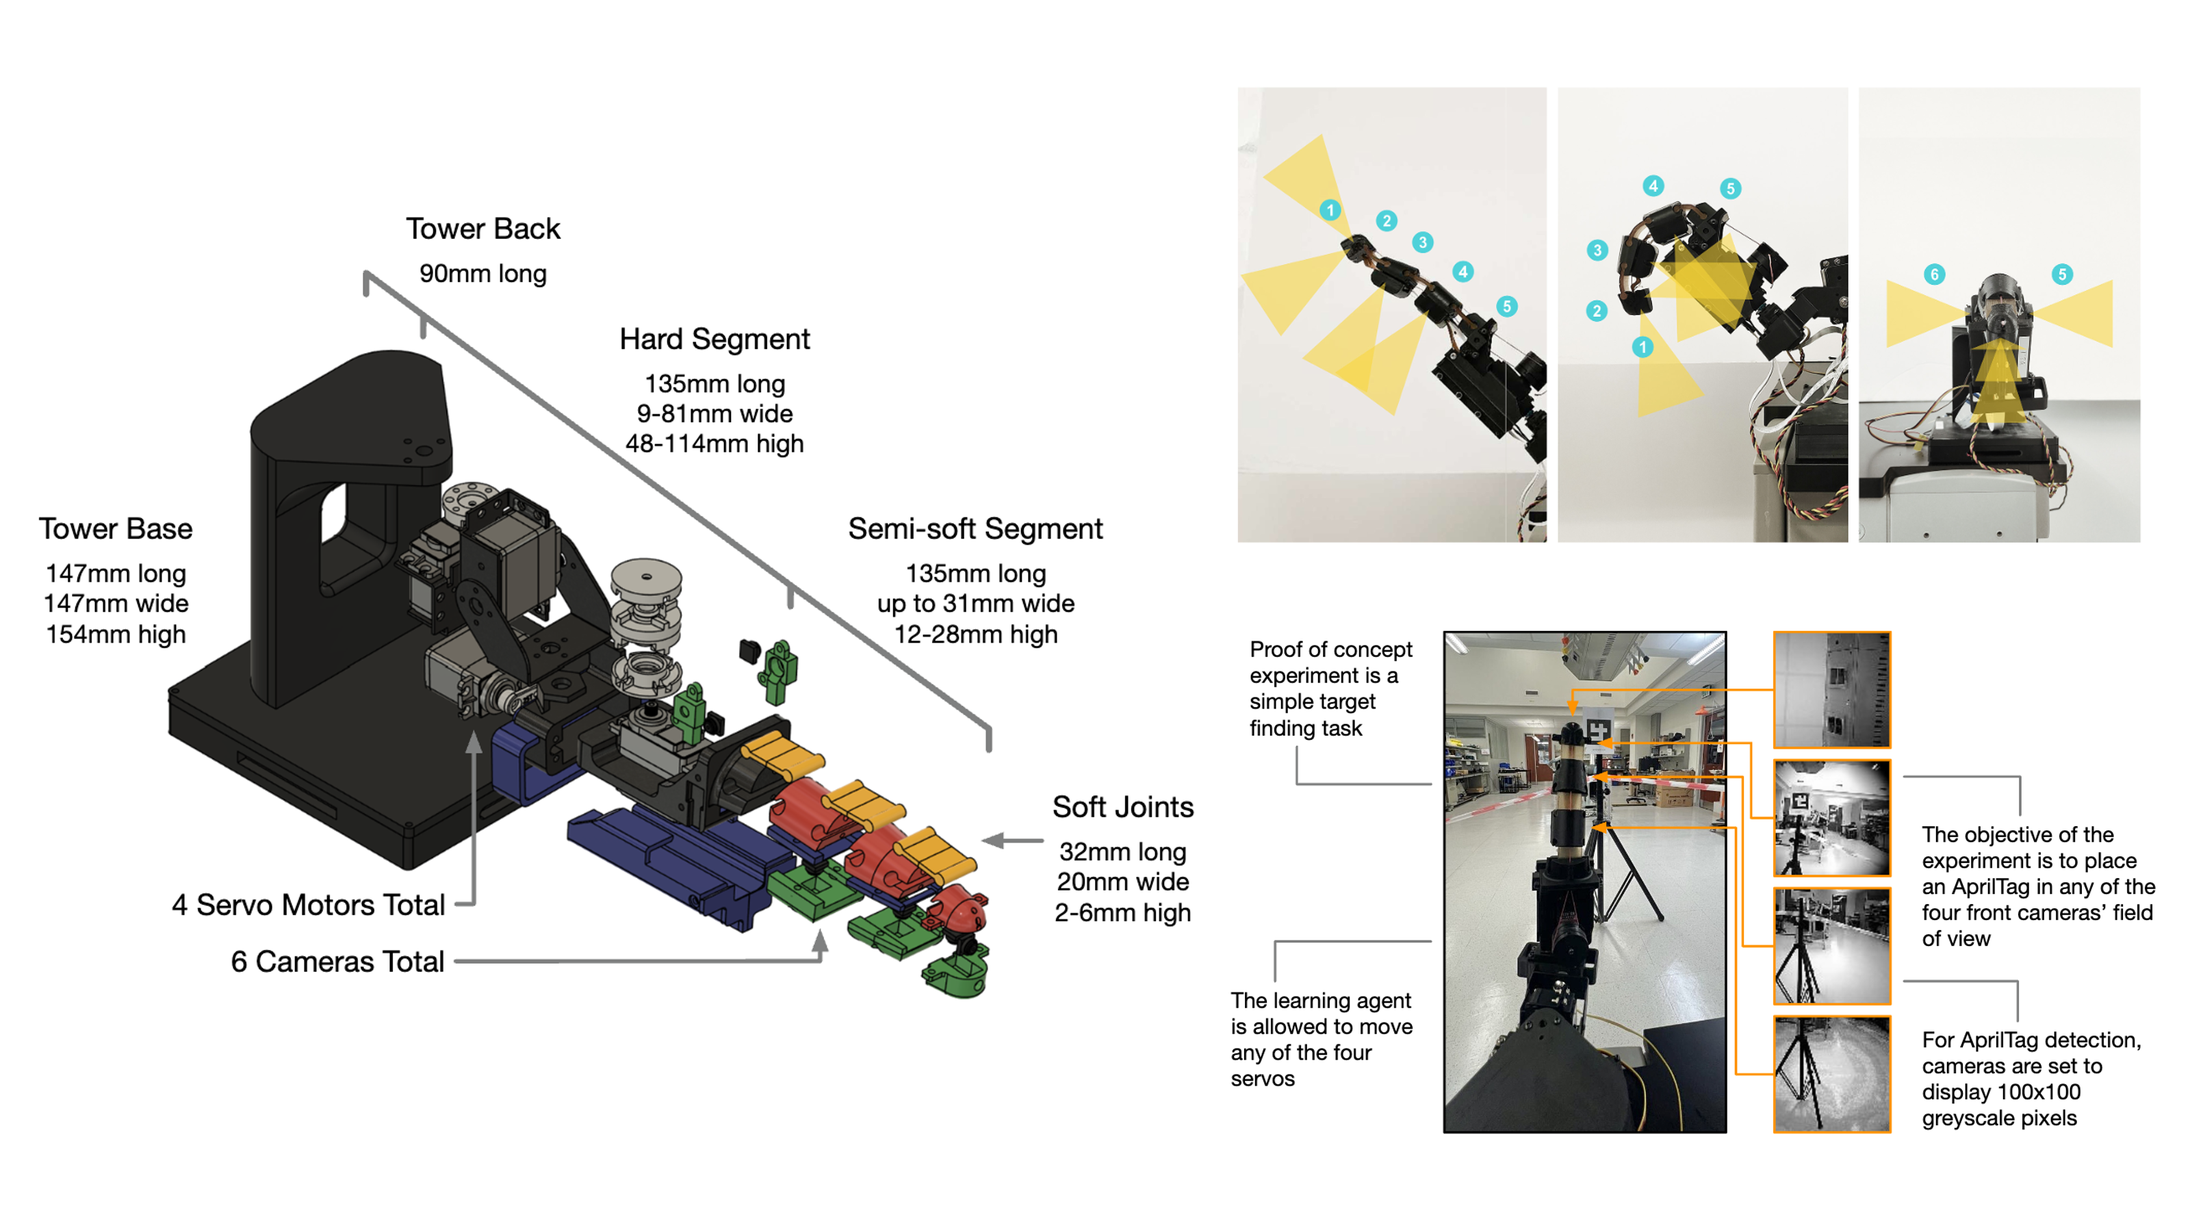
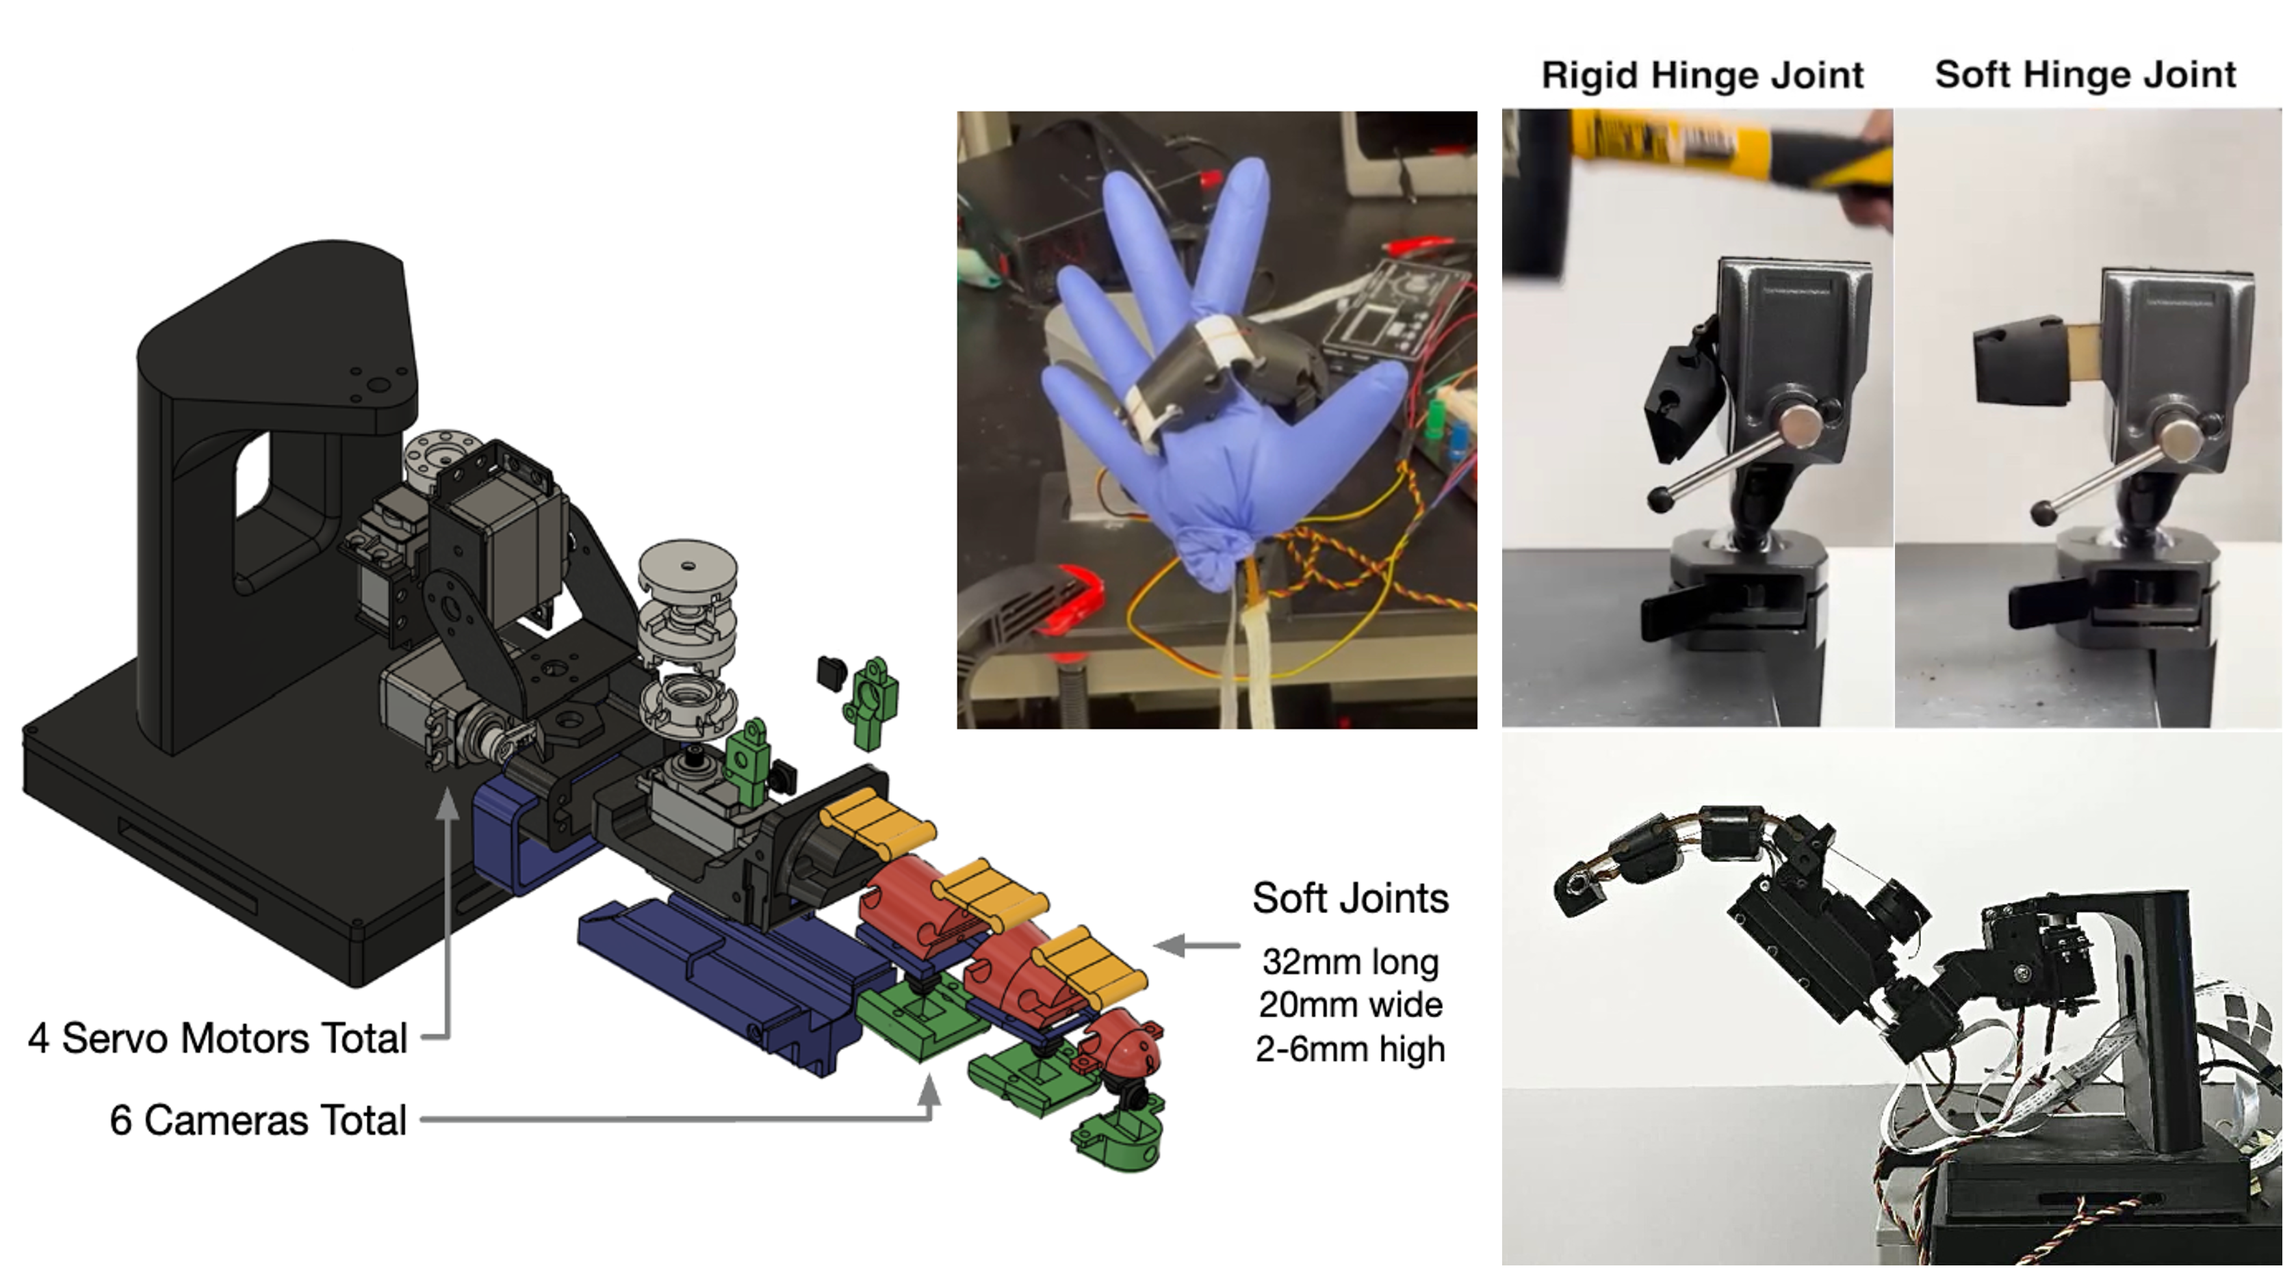
Add recent research work and update homepage

diff --git a/index.html b/index.html
@@ -105,9 +105,21 @@
     .pc:first-child             { border-top: none; padding-top: 0; }
     .pt                         { width: 320px; min-width: 320px; height: 180px; border-radius: 7px; overflow: hidden; border: 1px solid #e4e4e4; background: #f5f5f5; flex-shrink: 0; }
     .pt img                     { width: 100%; height: 100%; object-fit: cover; }
+    .pt img.evoalloc-preview    { object-fit: contain; background: #fff; }
+    .pt img.babyrobot-preview,
+    .pt img.starfish-preview    { display: block; box-sizing: border-box; padding: 10px; object-fit: contain; object-position: center; background: #fff; }
+    /* Frame the upper PSS scene: 480 × 270 at (120, 14) in the 600 × 410 GIF. */
+    .pt img.pss-preview         { display: block; width: 125%; max-width: none; height: auto; transform: translate(-20%, -3.414634%); }
+    button.pt                   { display: block; position: relative; box-sizing: content-box; padding: 0; font: inherit; text-align: left; appearance: none; cursor: zoom-in; }
+    button.pt:hover             { border-color: #185FA5; }
+    button.pt:focus-visible     { outline: 3px solid #185FA5; outline-offset: 4px; }
+    .pt-zoom-hint                { position: absolute; right: 8px; bottom: 8px; padding: 3px 8px; border-radius: 4px; background: rgba(22, 34, 50, .8); color: #fff; font: 12px/1.5 'Lato', sans-serif; opacity: 0; pointer-events: none; }
+    button.pt:hover .pt-zoom-hint,
+    button.pt:focus-visible .pt-zoom-hint { opacity: 1; }
     .pb                         { flex: 1; min-width: 0; display: flex; flex-direction: column; gap: 5px; }
     .vr                         { display: flex; align-items: center; gap: 7px; flex-wrap: wrap; }
     .vt                         { font-size: 14px; font-weight: 700; letter-spacing: .04em; padding: 2px 9px; border-radius: 4px; background: #EEEDFE; color: #534AB7; }
+    .vn                         { font-size: 14px; font-weight: 500; color: #666; }
     .vy                         { font-size: 14px; color: #999; }
     .vd                         { font-size: 14px; color: #ccc; }
     .bg                         { font-size: 14px; font-weight: 500; color: #e65100; }
@@ -118,6 +130,27 @@
     .lk a                       { font-size: 13px; color: #1772d0; text-decoration: none; border-bottom: 1px solid transparent; }
     .lk a:hover                 { border-bottom-color: #1772d0; }
     .lk span                    { font-size: 13px; color: #ddd; }
+
+    /* Full-size publication images; native dialog handles keyboard focus and Escape. */
+    body.image-preview-open     { overflow: hidden; }
+    .image-preview              { width: min(1100px, calc(100vw - 40px)); max-width: none; max-height: calc(100vh - 40px); max-height: calc(100dvh - 40px); box-sizing: border-box; margin: auto; padding: 18px; border: 0; border-radius: 12px; background: #fff; color: #1a1a1a; box-shadow: 0 24px 90px rgba(0, 0, 0, .25); }
+    .image-preview::backdrop     { background: rgba(15, 23, 42, .78); }
+    .image-preview-header        { display: flex; align-items: flex-start; justify-content: space-between; gap: 20px; margin-bottom: 14px; }
+    .image-preview-title         { margin: 0; font: 600 15px/1.5 'Lato', sans-serif; }
+    .image-preview-close         { flex-shrink: 0; min-width: 64px; min-height: 44px; padding: 8px 14px; border: 1px solid #ddd; border-radius: 7px; background: #fff; color: #444; font: 14px 'Lato', sans-serif; cursor: pointer; }
+    .image-preview-close:hover   { background: #f3f5f8; }
+    .image-preview-close:focus-visible { outline: 3px solid #185FA5; outline-offset: 2px; }
+    .image-preview-content       { display: flex; justify-content: center; align-items: center; }
+    .image-preview-content img   { display: block; width: auto; height: auto; max-width: 100%; max-height: calc(100vh - 170px); max-height: calc(100dvh - 170px); object-fit: contain; }
+    @media (max-width: 600px) {
+      .image-preview             { width: calc(100vw - 20px); padding: 12px; }
+      .image-preview-header      { gap: 12px; }
+      .image-preview-title       { font-size: 14px; }
+      .image-preview-content img { max-height: calc(100vh - 220px); max-height: calc(100dvh - 220px); }
+    }
+    @media (hover: none) {
+      .pt-zoom-hint              { opacity: 1; }
+    }
   </style>
 
   <script>
@@ -209,9 +242,10 @@
                     <a href="https://scholar.google.com/citations?user=mb_QQ2UAAAAJ">Shuo Gao</a> in 2023 and 2020.
                   </p>
                   <p>
-                    <b>Research:</b> My research interests span Reinforcement Learning, Robot Learning, and LLM Reasoning.
-                    I study how structured interactions between components or agents can enable more efficient, stable,
-                    and generalizable intelligence, ranging from algorithmic foundations to embodied systems.
+                    <b>Research:</b> My research interests span reinforcement learning, self-improving agents, and embodied AI.
+                    I study how agents can improve their capabilities through experience and feedback, with an emphasis on making this process efficient and reliable.
+                    I am particularly interested in how LLM-based agents refine their reasoning and problem-solving strategies,
+                    and how embodied agents connect reasoning with action to adapt to new tasks and environments.
                   </p>
                   <div class="cta">
                     <div class="dot"></div>
@@ -234,9 +268,16 @@
                       <td style="padding:20px; width:100%; vertical-align:middle;">
                         <heading id="news">News</heading>
                         <ul style="list-style:none; padding:0; margin-top:12px;">
+                          <li style="display:flex; gap:16px; padding:10px 0; border-bottom:0.5px solid #eee; font-size:14px; line-height:1.6;">
+                            <span style="color:#999; min-width:80px; font-size:13px; padding-top:2px;">Oct 2026</span>
+                            <span style="color:#444;">
+                              <span style="background:#EEEDFE; color:#3C3489; font-size:11px; font-weight:600; padding:2px 8px; border-radius:10px; margin-right:6px;">arXiv</span>
+                              Our preprint on efficient program evolution, <a href="https://arxiv.org/pdf/2610.12086" style="font-size:inherit; color:#185FA5; text-decoration:none; border-bottom:1px solid #B5D4F4;">EvoAlloc</a>, is now available on arXiv!
+                            </span>
+                          </li>
                           
                           <li style="display:flex; gap:16px; padding:10px 0; border-bottom:0.5px solid #eee; font-size:14px; line-height:1.6;">
-                            <span style="color:#999; min-width:80px; font-size:13px; padding-top:2px;">Jan 2026</span>
+                            <span style="color:#999; min-width:80px; font-size:13px; padding-top:2px;">Aug 2026</span>
                             <span style="color:#444;">
                               <span style="background:#EEEDFE; color:#3C3489; font-size:11px; font-weight:600; padding:2px 8px; border-radius:10px; margin-right:6px;">EMNLP 2026</span>
                               Our paper on self-Improving Agents is accepted to EMNLP 2026 Findings!
@@ -314,9 +355,14 @@
                   "best-paper": "★ Best Paper"
                 };
 
-                function renderCard(p) {
+                function renderCard(p, index) {
                   const badge   = p.badge && BADGE_LABELS[p.badge] ? `<span class="bg">${BADGE_LABELS[p.badge]}</span>` : "";
-                  const thumb   = p.image ? `<img src="${p.image}" alt="" onerror="this.parentElement.style.background='#f0f0f0'">` : "";
+                  const venueNote = p.venueNote ? `<span class="vn">${p.venueNote}</span>` : "";
+                  const thumb   = p.image ? `<img src="${p.image}" alt="" class="${p.imageClass || ''}" onerror="this.parentElement.style.background='#f0f0f0'">` : "";
+                  const imageLabel = `View larger image: ${p.title}`.replace(/[&<>"']/g, c => ({'&': '&amp;', '<': '&lt;', '>': '&gt;', '"': '&quot;', "'": '&#39;'}[c]));
+                  const preview = p.image
+                    ? `<button type="button" class="pt" data-publication-index="${index}" aria-label="${imageLabel}" aria-haspopup="dialog" aria-controls="publication-image-preview">${thumb}<span class="pt-zoom-hint" aria-hidden="true">View larger</span></button>`
+                    : `<div class="pt"></div>`;
                   const authors = p.authors.split(", ").map(a => {
                     const c = a.replace(/\*/g, ""), s = a.includes("*") ? "*" : "";
                     return c === HIGHLIGHT_AUTHOR ? `<strong>${c}${s}</strong>` : a;
@@ -325,9 +371,9 @@
                     `<a href="${l.url}" target="_blank" rel="noopener">[${l.label}]</a>` + (i < a.length - 1 ? `<span> / </span>` : "")
                   ).join("");
                   return `<li><div class="pc">
-                    <div class="pt">${thumb}</div>
+                    ${preview}
                     <div class="pb">
-                      <div class="vr"><span class="vt">${p.venue}</span><span class="vd">·</span><span class="vy">${p.year}</span>${badge}</div>
+                      <div class="vr"><span class="vt">${p.venue}</span>${venueNote}<span class="vd">·</span><span class="vy">${p.year}</span>${badge}</div>
                       <p class="ti">${p.title}</p>
                       <p class="au">${authors}</p>
                       <div class="lk">${links}</div>
@@ -341,6 +387,40 @@
                   el.innerHTML = typeof PUBLICATIONS === "undefined"
                     ? `<li style="color:#c00; font-size:13px">Error: publications.js not loaded.</li>`
                     : PUBLICATIONS.map(renderCard).join("");
+
+                  const dialog = document.getElementById("publication-image-preview");
+                  const image = document.getElementById("publication-preview-image");
+                  const title = document.getElementById("publication-preview-title");
+                  let trigger = null;
+
+                  el.addEventListener("click", event => {
+                    const button = event.target.closest("button[data-publication-index]");
+                    if (!button) return;
+                    const publication = PUBLICATIONS[Number(button.dataset.publicationIndex)];
+                    trigger = button;
+                    title.textContent = publication.title;
+                    image.alt = publication.title;
+                    image.src = publication.image;
+                    document.body.classList.add("image-preview-open");
+                    dialog.showModal();
+                  });
+
+                  dialog.querySelector(".image-preview-close").addEventListener("click", () => dialog.close());
+                  let startedOnBackdrop = false;
+                  const isBackdrop = event => {
+                    const rect = dialog.getBoundingClientRect();
+                    return event.target === dialog && (event.clientX < rect.left || event.clientX > rect.right || event.clientY < rect.top || event.clientY > rect.bottom);
+                  };
+                  dialog.addEventListener("pointerdown", event => { startedOnBackdrop = isBackdrop(event); });
+                  dialog.addEventListener("click", event => {
+                    if (startedOnBackdrop && isBackdrop(event)) dialog.close();
+                    startedOnBackdrop = false;
+                  });
+                  dialog.addEventListener("close", () => {
+                    document.body.classList.remove("image-preview-open");
+                    image.removeAttribute("src");
+                    if (trigger) trigger.focus({ preventScroll: true });
+                  });
                 });
               </script>
 
@@ -555,7 +635,7 @@
                           <div style="display:flex; align-items:baseline;">
                             <span style="flex:1; min-width:0;">
                               <strong>Conference Reviewer:</strong>
-                              NeurIPS, ICLR, EMNLP, IEEE FLEPS
+                              NeurIPS, ICLR, EMNLP, ICRA, IEEE FLEPS
                             </span>
                           </div>
                         </li>
@@ -564,8 +644,8 @@
                           <div style="display:flex; align-items:baseline;">
                             <span style="flex:1; min-width:0;">
                               <strong>Journal Reviewer:</strong>
-                              Expert Systems with Applications, IEEE Sensors Journal,
-                              IEEE Sensors Letters, Frontiers in Electronics
+                              Expert Systems with Applications; IEEE Transactions on Neural Systems and Rehabilitation Engineering;
+                              IEEE Sensors Journal; IEEE Sensors Letters; Frontiers in Electronics.
                             </span>
                           </div>
                         </li>
@@ -605,6 +685,16 @@
 
     </div>
   </main>
+
+  <dialog id="publication-image-preview" class="image-preview" aria-labelledby="publication-preview-title">
+    <div class="image-preview-header">
+      <h2 id="publication-preview-title" class="image-preview-title"></h2>
+      <button type="button" class="image-preview-close" aria-label="Close image preview" autofocus>Close</button>
+    </div>
+    <div class="image-preview-content">
+      <img id="publication-preview-image" alt="">
+    </div>
+  </dialog>
 
 </body>
 </html>

diff --git a/Publications_selected.js b/Publications_selected.js
@@ -3,6 +3,7 @@
 //
 //  Fields per entry:
 //    venue   : string  — journal/conference name shown as colored tag
+//    venueNote: string — optional text shown after the venue tag
 //    year    : string  — publication year
 //    badge   : string | null
 //                "cover"      → orange  "Cover Article"
@@ -17,6 +18,7 @@
 //    abstract: string — 1–2 sentences shown under authors
 //    image   : string — path to teaser image, e.g. "images/pub_foo.png"
 //                       set to "" to show grey placeholder
+//    imageClass: string — optional CSS class for teaser framing
 //    links   : array  — { label: "Paper", url: "https://..." }
 //                       use url: "#" as placeholder; remove entry to hide link
 // ============================================================
@@ -34,6 +36,19 @@ const PUBLICATIONS = [
       { label: "Paper",   url: "https://arxiv.org/pdf/2603.15388" },
       { label: "Project", url: "https://yanningdai.github.io/stackelberg-ppo-co-design/" },
       { label: "Code",    url: "https://github.com/YanningDai/StackelbergPPO" },
+      { label: "Poster",  url: "https://iclr.cc/media/PosterPDFs/ICLR%202026/10007068.png?t=1775569433.1890833" },
+    ]
+  },
+  {
+    venue: "arXiv",
+    year: "2026",
+    badge: null,
+    title: "EvoAlloc: A Self-Evolving Resource Allocation Agent for Efficient Program Evolution",
+    authors: "Yanning Dai, Yuhui Wang, Nanbo Li, Wenyi Wang, Jürgen Schmidhuber",
+    image: "figures/pub_evoalloc.png",
+    imageClass: "evoalloc-preview",
+    links: [
+      { label: "Paper",   url: "https://arxiv.org/pdf/2610.12086" },
     ]
   },
   {
@@ -50,6 +65,20 @@ const PUBLICATIONS = [
     ]
   },
   {
+    venue: "arXiv",
+    year: "2026",
+    badge: null,
+    title: "Predictive Semantic Safety: From Visual Physical Reasoning to Safety-Critical Control",
+    authors: "Taekyung Kim*, Salem Fradi*, Yanning Dai, Mateusz Ostaszewski, Jürgen Schmidhuber",
+    image: "figures/pub_pss.gif",
+    imageClass: "pss-preview",
+    links: [
+      { label: "Paper",   url: "https://arxiv.org/pdf/2609.34356" },
+      { label: "Project", url: "https://www.taekyung.me/pss" },
+      { label: "Code",    url: "https://github.com/AlKeshi/predictive-semantic-safety" },
+    ]
+  },
+  {
     venue: "IROS",
     year: "2025",
     badge: null,
@@ -57,12 +86,26 @@ const PUBLICATIONS = [
     authors: "Mohannad Alhakami*, Dylan R Ashley*, Joel Dunham*, Yanning Dai, Francesco Faccio, Eric Feron, Jürgen Schmidhuber",
     abstract: "We present Baby Robot, a robust low-cost platform designed for safe physical interaction and rapid experimentation, enabling data-efficient reinforcement learning in real-world settings.",
     image: "figures/pub_babyrobot.png",
+    imageClass: "babyrobot-preview",
     links: [
       { label: "Paper",   url: "https://arxiv.org/pdf/2404.08093" },
       { label: "Code",   url: "https://github.com/dylanashley/robot-limb-testai" },
     ]
   },
-    {
+  {
+    venue: "IROS",
+    venueNote: "Late-Breaking Results",
+    year: "2024",
+    badge: null,
+    title: "Towards a Robust Starfish Robot for AI Research",
+    authors: "Mohannad Alhakami, Dylan R. Ashley*, Joel Dunham*, Yanning Dai, Francesco Faccio, Eric Feron, Jürgen Schmidhuber",
+    image: "figures/pub_startfish.png",
+    imageClass: "starfish-preview",
+    links: [
+      { label: "Poster", url: "files/poster_iros2024.pdf" },
+    ]
+  },
+  {
     venue: "Nature Reviews Electrical Engineering",
     year: "2024",
     badge: null,
